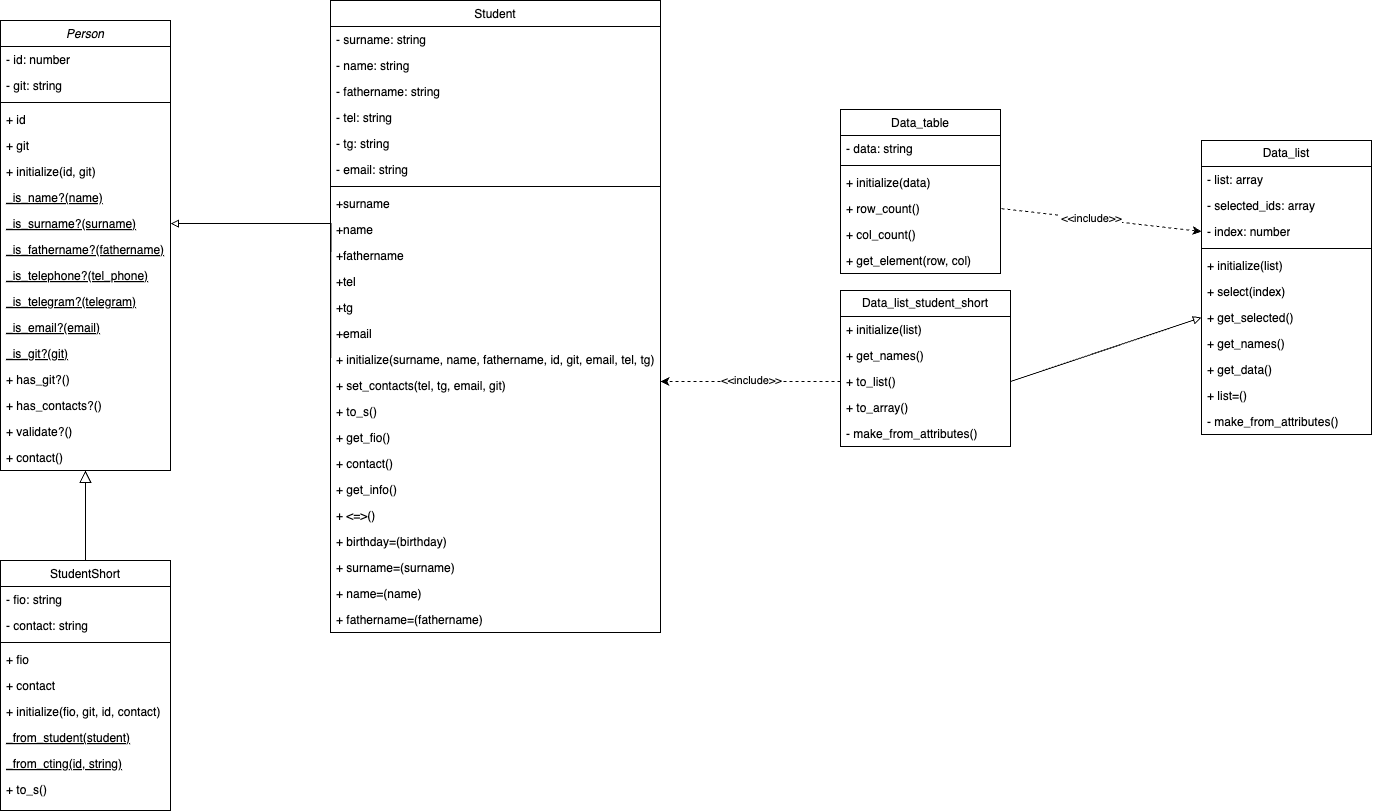
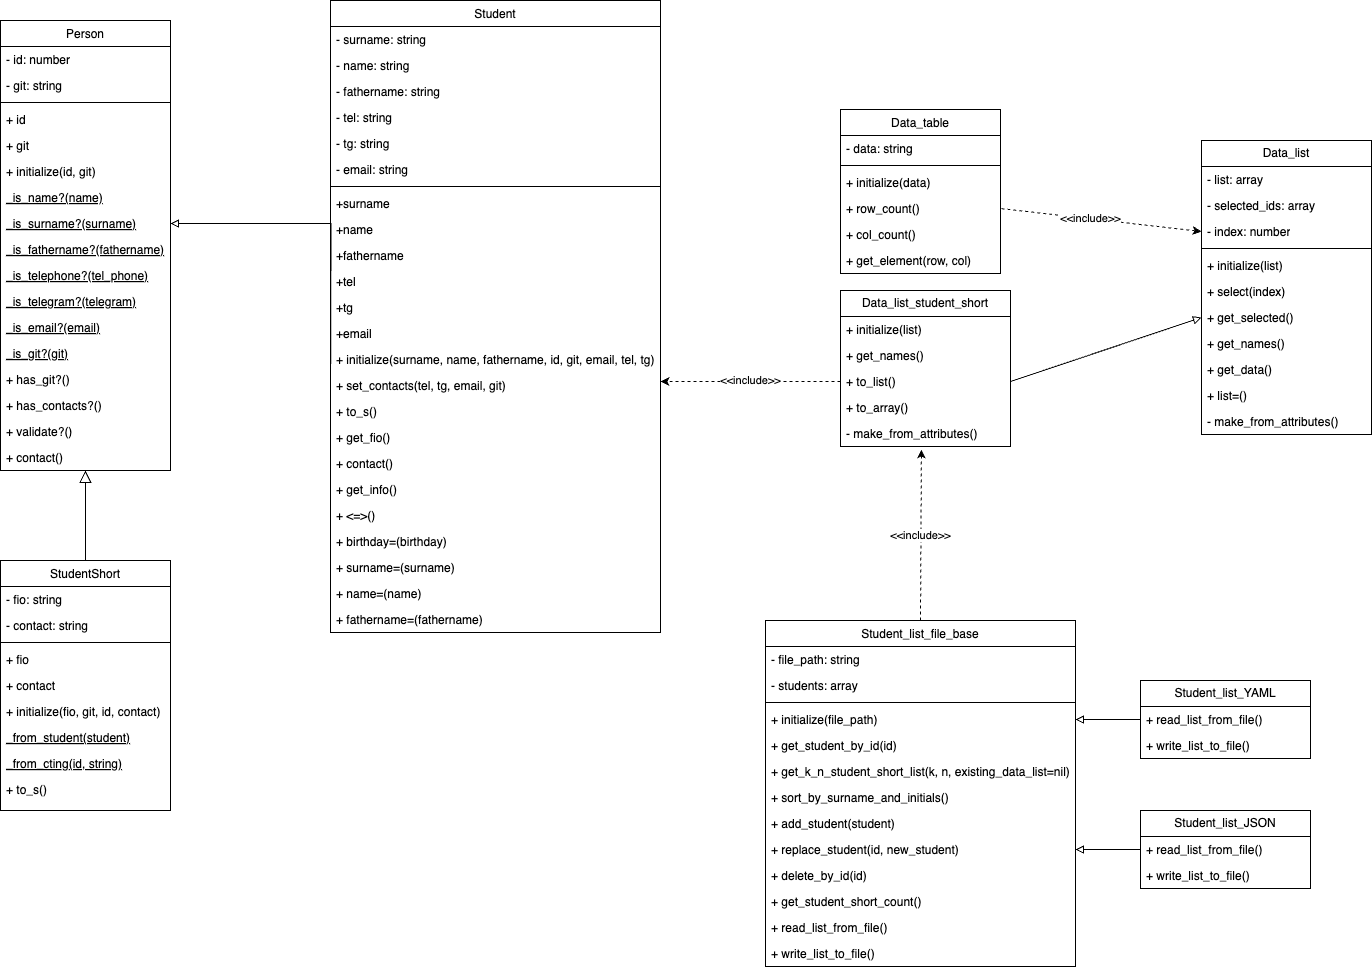
lab4 task 4.2.4 add superclass and change class diagram

diff --git a/Lab_Students/student_list_JSON.rb b/Lab_Students/student_list_JSON.rb
@@ -1,14 +1,8 @@
 require 'json'
 require './class_student.rb'
-require './short_class_student.rb'
-require './Data/data_list_student_short.rb'
+require './student_list_file_base.rb'
 
-class Student_list_JSON
-  def initialize(file_path)
-    @file_path = file_path
-    @students = read_list_from_file
-  end
-
+class Student_list_JSON < Student_list_file_base
   def read_list_from_file
     if File.exist?(@file_path)
       file_content = File.read(@file_path)
@@ -20,54 +14,8 @@ class Student_list_JSON
     end
   end
 
-  def write_list_to_file()
+  def write_list_to_file
     data = @students.map(&:to_h)
     File.write(@file_path, JSON.pretty_generate(data))
   end
-  
-
-  def get_student_by_id(id)
-    @students.find{ |student| student.id == id}
-  end
-
-  def get_k_n_student_short_list(k, n, existing_data_list = nil)
-    start_index = (k - 1) * n
-    slice = @students[start_index, n] || []
-    student_shorts = slice.map{ |student| StudentShort.from_student(student) }
-    
-    if existing_data_list
-      existing_data_list.replace(student_shorts)
-      existing_data_list
-    else
-      Data_list_student_short.new(student_shorts)
-    end
-  end
-
-  def sort_by_surname_and_initials()
-    @students = @students.sort_by { |student| student.get_fio }
-  end
-
-  def add_student(student)
-    new_id = (@students.map(&:id).max || 0) + 1
-    student.id = new_id
-    @students.push(student)
-  end
-
-  def replace_student(id, new_student)
-    index = @students.find_index { |student| student.id == id }
-    raise IndexError, 'Student with such id does not exist' unless index
-    new_student.id = id
-    @students[index] = new_student
-end
-
-  def delete_by_id(id)
-    @students.delete_if {|student| student.id = id}
-  end
-
-  def get_student_short_count()
-    @students.size
-  end
-
-  private
-  attr_accessor :file_path, :students
 end

diff --git a/Lab_Students/student_list_YAML.rb b/Lab_Students/student_list_YAML.rb
@@ -1,14 +1,8 @@
 require 'yaml'
 require './class_student.rb'
-require './short_class_student.rb'
-require './Data/data_list_student_short.rb'
+require './student_list_file_base.rb'
 
-class Student_list_YAML
-  def initialize(file_path)
-    @file_path = file_path
-    @students = read_list_from_file
-  end
-
+class Student_list_YAML < Student_list_file_base
   def read_list_from_file
     if File.exist?(@file_path)
       file_content = File.read(@file_path)
@@ -20,54 +14,8 @@ class Student_list_YAML
     end
   end
 
-  def write_list_to_file()
+  def write_list_to_file
     data = @students.map(&:to_h)
     File.write(@file_path, data.to_yaml)
   end
-  
-
-  def get_student_by_id(id)
-    @students.find{ |student| student.id == id}
-  end
-
-  def get_k_n_student_short_list(k, n, existing_data_list = nil)
-    start_index = (k - 1) * n
-    slice = @students[start_index, n] || []
-    student_shorts = slice.map{ |student| StudentShort.from_student(student) }
-    
-    if existing_data_list
-      existing_data_list.replace(student_shorts)
-      existing_data_list
-    else
-      Data_list_student_short.new(student_shorts)
-    end
-  end
-
-  def sort_by_surname_and_initials()
-    @students = @students.sort_by { |student| student.get_fio }
-  end
-
-  def add_student(student)
-    new_id = (@students.map(&:id).max || 0) + 1
-    student.id = new_id
-    @students.push(student)
-  end
-
-  def replace_student(id, new_student)
-    index = @students.find_index { |student| student.id == id }
-    raise IndexError, 'Student with such id does not exist' unless index
-    new_student.id = id
-    @students[index] = new_student
-end
-
-  def delete_by_id(id)
-    @students.delete_if {|student| student.id = id}
-  end
-
-  def get_student_short_count()
-    @students.size
-  end
-
-  private
-  attr_accessor :file_path, :students
 end

diff --git a/Lab_Students/student_list_file_base.rb b/Lab_Students/student_list_file_base.rb
@@ -1,0 +1,63 @@
+require './short_class_student.rb'
+require './Data/data_list_student_short.rb'
+
+class Student_list_file_base
+
+  def initialize(file_path)
+    @file_path = file_path
+    @students = read_list_from_file
+  end
+
+  def get_student_by_id(id)
+    @students.find{ |student| student.id == id}
+  end
+
+  def get_k_n_student_short_list(k, n, existing_data_list = nil)
+    start_index = (k - 1) * n
+    slice = @students[start_index, n] || []
+    student_shorts = slice.map{ |student| StudentShort.from_student(student) }
+    
+    if existing_data_list
+      existing_data_list.replace(student_shorts)
+      existing_data_list
+    else
+      Data_list_student_short.new(student_shorts)
+    end
+  end
+
+  def sort_by_surname_and_initials()
+    @students = @students.sort_by { |student| student.get_fio }
+  end
+
+  def add_student(student)
+    new_id = (@students.map(&:id).max || 0) + 1
+    student.id = new_id
+    @students.push(student)
+  end
+
+  def replace_student(id, new_student)
+    index = @students.find_index { |student| student.id == id }
+    raise IndexError, 'Student with such id does not exist' unless index
+    new_student.id = id
+    @students[index] = new_student
+  end
+
+  def delete_by_id(id)
+    @students.delete_if {|student| student.id = id}
+  end
+
+  def get_student_short_count()
+    @students.size
+  end
+
+  def read_list_from_file
+    raise NotImplementedError, "Method read_list_from_file must be implemented in children class!"
+  end
+
+  def write_list_to_file
+    raise NotImplementedError, "Method write_list_to_file must be implemented in children class!"
+  end
+
+  protected
+  attr_accessor :file_path, :students
+end

diff --git a/Lab_Students/main.rb b/Lab_Students/main.rb
@@ -5,6 +5,7 @@ require_relative 'Data/data_list_student_short.rb'
 require_relative 'Data/data_list.rb'
 require './student_list_JSON.rb'
 require './student_list_YAML.rb'
+require './student_list_file_base.rb'
 
 
 student1 = Student.new(surname: "Масенко", name: "Мария", fathername: "Сергеевна", birthday: 1076532600, id: 1, git: "github.com/lububuska", email: "masenko.maria2004@gmail.com")
